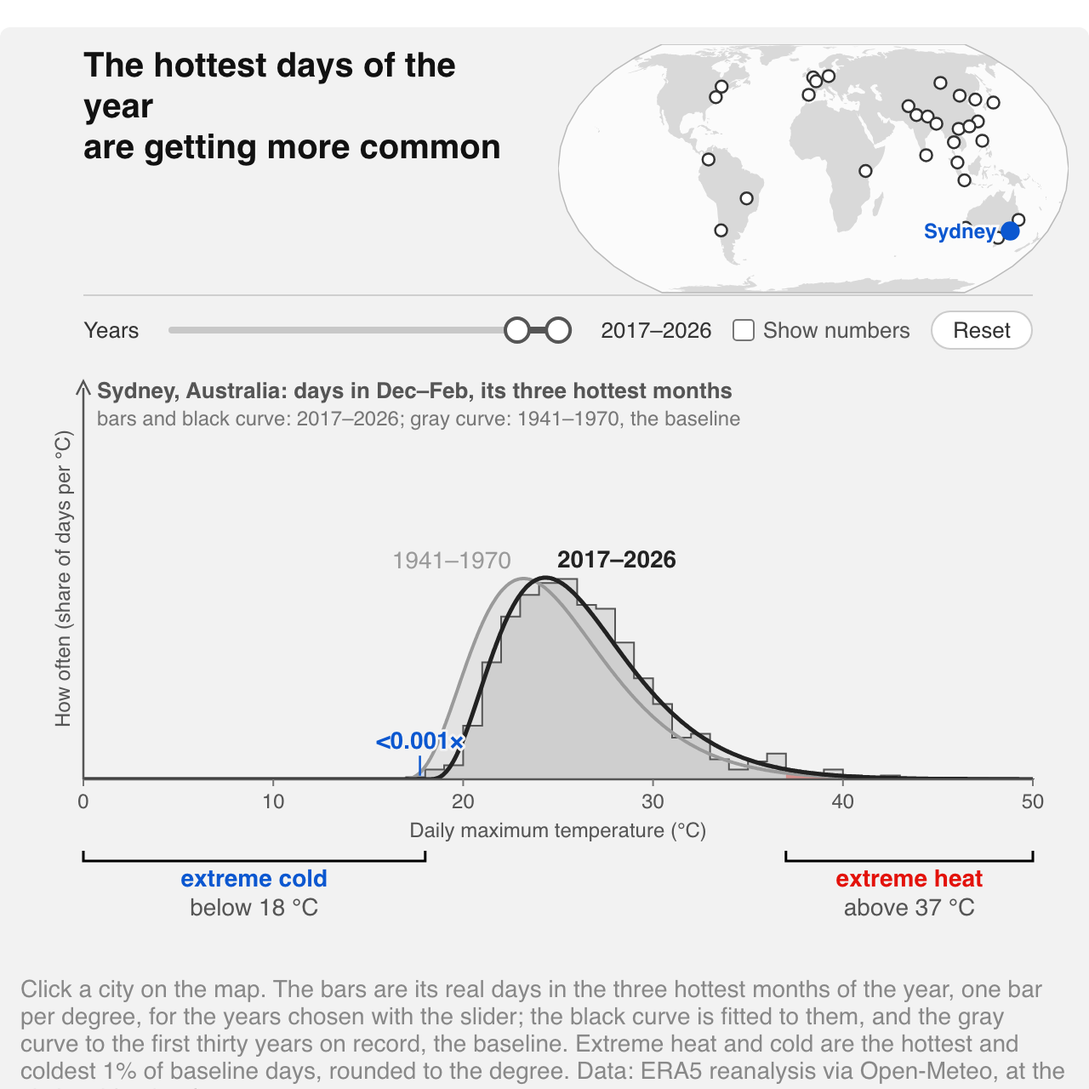
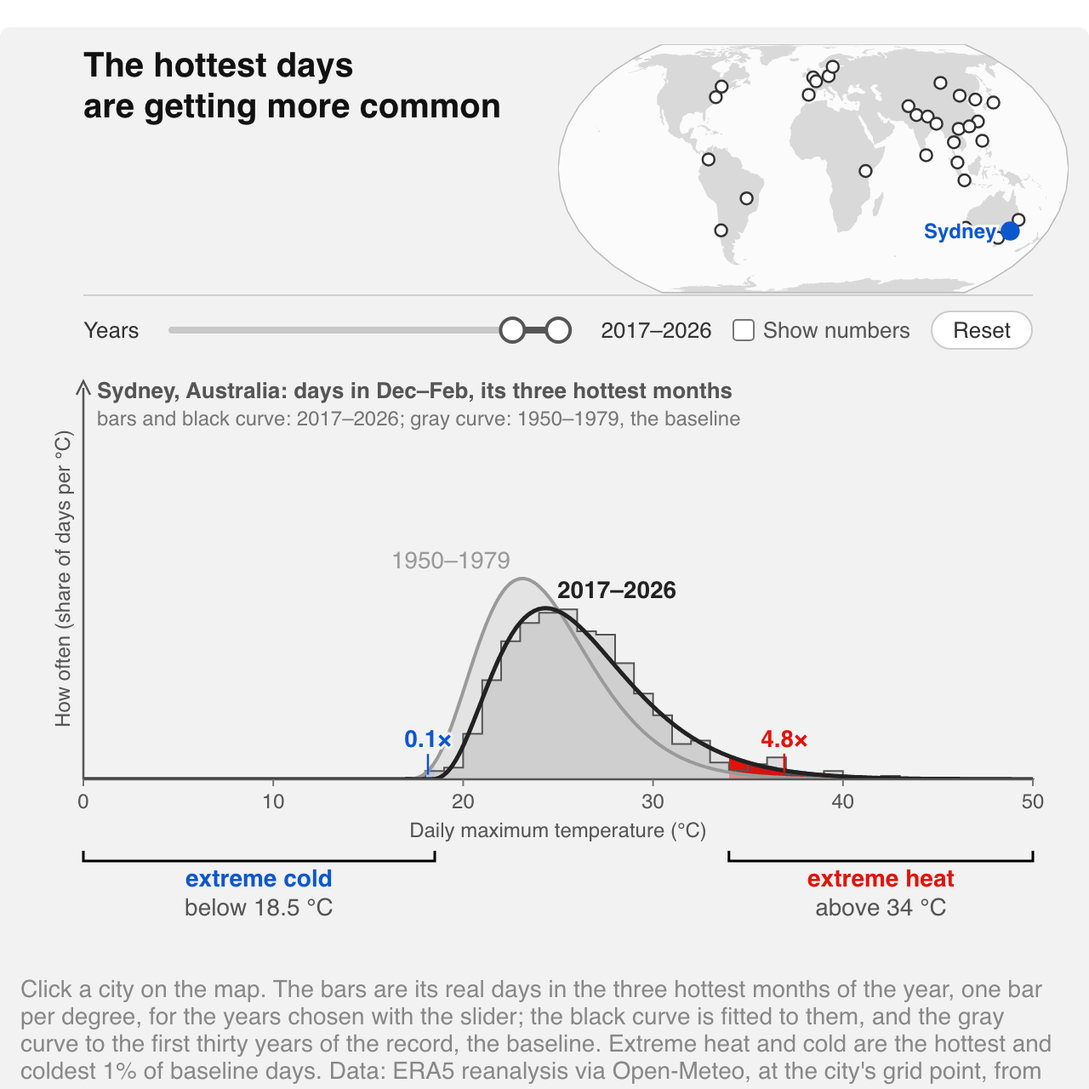
Extreme events, in real cities: record from 1950, thresholds to a tenth, grab the window
ERA5's 1940s rest on the sparse observations of the war years and come out a degree or
two warmer than the 1950s at cities as far apart as Sydney, Beijing and Islamabad, in a
step rather than a trend; as a third of the baseline they inflated every "was" figure, so
the record now starts in 1950 (a firstYear option) and the baseline is 1950–1979. The
thresholds are the baseline's 1% quantiles to a tenth of a degree rather than rounded to
whole degrees, which in a tropical city with a spread under two degrees could move the
baseline share from 1% to 0.1%. The years slider can be grabbed between its handles and
slid along with its width kept, and the multiplier over a tail is the data's share ratio,
not the fitted curves', whose hard bound could sit past a threshold.

diff --git a/src/extreme-events-cities/widget.js b/src/extreme-events-cities/widget.js
@@ -18,7 +18,7 @@
 // the same fit to the window, so it follows the slider. There are no curve sliders here:
 // the reader's controls are the city and the years.
 //
-// The extremes are the baseline's hottest and coldest 1% of days, rounded to whole degrees,
+// The extremes are the baseline's hottest and coldest 1% of days, to a tenth of a degree,
 // so each city gets thresholds of its own. The temperature axis is the same for every city,
 // so that nothing jumps when one is picked, except that the two polar stations slide it
 // down by 25 degrees (same width, animated, so the ticks are seen to move); the vertical
@@ -43,6 +43,11 @@ const TINT_BASE = 0.38, TINT_LOSS = 0.16;
 const LEADER_BAND = 2;
 const BASELINE_YEARS = 30;
 const WINDOW_YEARS = 10;      // the window the slider opens on: the last ten years
+// The record starts in 1950, although the data file runs from 1940: ERA5's 1940s rest on
+// the sparse observations of the war years and come out a degree or two too warm at
+// several unrelated cities (Sydney, Beijing, Islamabad), which, as a third of the baseline,
+// inflated every "was" figure.
+const FIRST_YEAR = 1950;
 const TAIL = 0.01;
 const X_RANGE = [0, 50];      // the temperature axis, °C, the same for every city but the polar ones,
 const POLAR_RANGE = [-25, 25]; // which slide it down by 25 degrees: same width, so the ticks just move
@@ -72,11 +77,19 @@ export function moments(v) {
 
 // `data` is the parsed data/hot-season-tmax.json, `world` the parsed countries-110m.json
 // (without it the map has no land). `city` is a name from the data; `xRange` the
-// temperature axis in °C, and `polarRange` the one for cities beyond 60° of latitude.
-export function createCityExtremesWidget({data, world, city = "Sydney", xRange = X_RANGE, polarRange = POLAR_RANGE, showNumbers = false, width = FIGURE_WIDTH} = {}) {
+// temperature axis in °C, and `polarRange` the one for cities beyond 60° of latitude;
+// `firstYear` is where the record starts.
+export function createCityExtremesWidget({data, world, city = "Sydney", xRange = X_RANGE, polarRange = POLAR_RANGE, firstYear = FIRST_YEAR, showNumbers = false, width = FIGURE_WIDTH} = {}) {
   if (!data?.cities?.length) throw new Error("createCityExtremesWidget needs the hot-season-tmax data");
   const uid = `extreme-events-cities-${++instances}`;
-  const cities = data.cities.map(c => ({...c, seasons: c.days.map(d => d.map(t => t / 10))}));
+  const cities = data.cities.map(c => {
+    const keep = c.years.map(y => y >= firstYear);
+    return {
+      ...c,
+      years: c.years.filter((_, i) => keep[i]),
+      seasons: c.days.filter((_, i) => keep[i]).map(d => d.map(t => t / 10)),
+    };
+  });
   const land = world?.objects?.land ? feature(world, world.objects.land) : null;
 
   // Vertical layout as in the simple widget, with two caption lines at the top of the plot.
@@ -138,9 +151,12 @@ export function createCityExtremesWidget({data, world, city = "Sydney", xRange =
     const y0 = c.years[0], y1 = c.years[Math.min(BASELINE_YEARS, c.years.length) - 1];
     const days = daysIn(y0, y1);
     base = {from: y0, to: y1, ...moments(days)};
+    // The thresholds are the baseline's 1% quantiles to a tenth of a degree: rounding to a
+    // whole degree looked friendlier but, in a tropical city where the spread is under two
+    // degrees, it could move the baseline share from 1% to 0.1% and the multiplier tenfold.
     const [lo, hi] = rangeFor(c);
-    thrHi = clamp(Math.round(quantileOf(days, 1 - TAIL)), lo, hi);
-    thrLo = clamp(Math.round(quantileOf(days, TAIL)), lo, hi);
+    thrHi = clamp(Math.round(10 * quantileOf(days, 1 - TAIL)) / 10, lo, hi);
+    thrLo = clamp(Math.round(10 * quantileOf(days, TAIL)) / 10, lo, hi);
     base.hiShare = share(days, true);
     base.loShare = share(days, false);
     ref = pearson3(base.mean, base.sd, base.skew);
@@ -171,7 +187,7 @@ export function createCityExtremesWidget({data, world, city = "Sydney", xRange =
   container.appendChild(header);
   const title = document.createElement("div");
   title.style.cssText = "font-weight:bold;color:#111;line-height:1.2;white-space:pre-line;padding:0 0 6px;flex:1 1 200px;";
-  title.textContent = "The hottest days of the year\nare getting more common";
+  title.textContent = "The hottest days\nare getting more common";
   header.appendChild(title);
 
   const mapSvg = document.createElementNS(SVG_NS, "svg");
@@ -221,9 +237,12 @@ export function createCityExtremesWidget({data, world, city = "Sydney", xRange =
   right.append(numbersField, resetButton);
   toolRow.appendChild(right);
 
-  // The two-handle slider: a track, the span between the handles, and the handles.
+  // The two-handle slider: a track, the span between the handles, a wide invisible strip over
+  // the span by which the whole window is dragged along, and the handles.
   const rangeTrack = svgEl("line", {y1: RANGE_H / 2, y2: RANGE_H / 2, stroke: "#c8c8c8", "stroke-width": 4, "stroke-linecap": "round"}, yearsSvg);
   const rangeSpan = svgEl("line", {y1: RANGE_H / 2, y2: RANGE_H / 2, stroke: BAR_STROKE, "stroke-width": 4, "stroke-linecap": "round"}, yearsSvg);
+  const rangeGrip = svgEl("line", {y1: RANGE_H / 2, y2: RANGE_H / 2, stroke: "#000", "stroke-opacity": 0, "stroke-width": RANGE_H}, yearsSvg);
+  rangeGrip.style.cursor = "grab";
   const handles = {};
   for (const key of ["from", "to"]) {
     const h = svgEl("circle", {cy: RANGE_H / 2, r: HANDLE_R, fill: "#fff", stroke: BAR_STROKE, "stroke-width": 2, tabindex: 0,
@@ -247,8 +266,32 @@ export function createCityExtremesWidget({data, world, city = "Sydney", xRange =
     });
     handles[key] = h;
   }
+  // A press between the handles grabs the whole window and drags it along, its width kept;
+  // a press on the track outside them jumps the nearer handle there. Decided by position,
+  // not by which element was hit, since an invisible stroke is not hit-tested everywhere.
   yearsSvg.addEventListener("pointerdown", e => {
     if (e.target.tagName === "circle") return;
+    e.preventDefault();
+    const x = e.clientX - yearsSvg.getBoundingClientRect().left;
+    if (x > yearX(from) + HANDLE_R && x < yearX(to) - HANDLE_R) {
+      yearsSvg.setPointerCapture(e.pointerId);
+      rangeGrip.style.cursor = "grabbing";
+      const y0 = yearAt(e.clientX), from0 = from, span = to - from;
+      const first = c.years[0], last = c.years[c.years.length - 1];
+      const move = ev => {
+        const d = clamp(yearAt(ev.clientX) - y0, first - from0, last - span - from0);
+        if (from0 + d === from) return;
+        from = from0 + d;
+        to = from + span;
+        update();
+      };
+      yearsSvg.addEventListener("pointermove", move);
+      yearsSvg.addEventListener("pointerup", () => {
+        yearsSvg.removeEventListener("pointermove", move);
+        rangeGrip.style.cursor = "grab";
+      }, {once: true});
+      return;
+    }
     const y = yearAt(e.clientX);
     const key = Math.abs(y - from) <= Math.abs(y - to) ? "from" : "to";
     setYear(key, y);
@@ -270,6 +313,7 @@ export function createCityExtremesWidget({data, world, city = "Sydney", xRange =
     const x0 = yearX(from), x1 = yearX(to), W = rangeWidth();
     setAttrs(rangeTrack, {x1: HANDLE_R, x2: W - HANDLE_R});
     setAttrs(rangeSpan, {x1: x0.toFixed(1), x2: x1.toFixed(1)});
+    setAttrs(rangeGrip, {x1: x0.toFixed(1), x2: x1.toFixed(1)});
     handles.from.setAttribute("cx", x0.toFixed(1));
     handles.to.setAttribute("cx", x1.toFixed(1));
     for (const key of ["from", "to"]) {
@@ -292,8 +336,8 @@ export function createCityExtremesWidget({data, world, city = "Sydney", xRange =
   note.textContent =
     "Click a city on the map. The bars are its real days in the three hottest months of the year, one bar per degree, " +
     "for the years chosen with the slider; the black curve is fitted to them, and the gray curve to the first thirty " +
-    "years on record, the baseline. Extreme heat and cold are the hottest and coldest 1% of baseline days, rounded to " +
-    "the degree. Data: ERA5 reanalysis via Open-Meteo, at the city's grid point, from 1940.";
+    "years of the record, the baseline. Extreme heat and cold are the hottest and coldest 1% of baseline days. " +
+    "Data: ERA5 reanalysis via Open-Meteo, at the city's grid point, from 1950.";
   container.appendChild(note);
 
   function svgEl(tag, attrs = {}, parent) {
@@ -557,8 +601,8 @@ export function createCityExtremesWidget({data, world, city = "Sydney", xRange =
       ? `${win.mean.toFixed(1)} ± ${win.sd.toFixed(1)} °C (was ${base.mean.toFixed(1)} ± ${base.sd.toFixed(1)})`
       : `fits: ${win.mean.toFixed(1)} ± ${win.sd.toFixed(1)} °C, skewness ${signed(win.skew, 2)} (baseline ${base.mean.toFixed(1)} ± ${base.sd.toFixed(1)} °C, ${signed(base.skew, 2)})`;
 
-    const stats = {lo: tailStats("lo"), hi: tailStats("hi")};
     const dataShare = {hi: share(days, true), lo: share(days, false)};
+    const stats = {lo: tailStats("lo", dataShare.lo), hi: tailStats("hi", dataShare.hi)};
     for (const side of ["lo", "hi"]) placeLeader(side, stats[side]);
     const of = narrow() ? "" : " of days"; // two full lines do not fit side by side on a phone
     fitLines(2, {
@@ -591,11 +635,14 @@ export function createCityExtremesWidget({data, world, city = "Sydney", xRange =
   }
   const narrow = () => w < 480;
 
-  function tailStats(side) {
+  // A tail's multiplier is the data's: the window's share of days beyond the threshold over
+  // the baseline's. (The fitted curves' shares would do in the middle, but a skewed fit has
+  // a hard bound that can sit past a threshold where the data still have days.) The leader
+  // still stands where the area between the two curves is.
+  function tailStats(side, fNow) {
     const hi = side === "hi";
     const t = hi ? thrHi : thrLo;
-    const fNow = clamp(hi ? 1 - cur.cdf(t) : cur.cdf(t), 0, 1);
-    const fWas = clamp(hi ? 1 - ref.cdf(t) : ref.cdf(t), 0, 1);
+    const fWas = hi ? base.hiShare : base.loShare;
     const ratio = fWas > 0 ? fNow / fWas : fNow > 0 ? Infinity : 1;
     let sw = 0, sx = 0, sy = 0;
     for (const x of samples) {
@@ -607,8 +654,8 @@ export function createCityExtremesWidget({data, world, city = "Sydney", xRange =
     return {t, fNow, fWas, ratio, cx: sw > 1e-12 ? sx / sw : null, cy: sw > 1e-12 ? sy / sw : 0};
   }
 
-  // The multiplier over a tail is the fitted curves', shown once it is outside the band from
-  // half to double, and always with the numbers.
+  // The multiplier over a tail, shown once it is outside the band from half to double, and
+  // always with the numbers; "0×" when the window has no such days at all.
   function placeLeader(side, st) {
     const t = tails[side];
     const show = st.cx != null && Number.isFinite(st.ratio) && (numbers || st.ratio >= LEADER_BAND || st.ratio <= 1 / LEADER_BAND);
@@ -618,7 +665,7 @@ export function createCityExtremesWidget({data, world, city = "Sydney", xRange =
     const top = Math.max(plotT + labelFont + 4, ys(Math.max(cur.pdf(st.cx), ref.pdf(st.cx))) - 10);
     setAttrs(t.leader, {x1: px.toFixed(1), x2: px.toFixed(1), y1: ys(st.cy).toFixed(1), y2: top.toFixed(1)});
     setAttrs(t.leaderLabel, {x: px.toFixed(1), y: (top - 4).toFixed(1)});
-    t.leaderLabel.textContent = `${formatMultiplier(st.ratio)}×`;
+    t.leaderLabel.textContent = st.fNow === 0 ? "0×" : `${formatMultiplier(st.ratio)}×`;
   }
 
   // The curves are named by their years, each label on the side away from the other and

diff --git a/src/extreme-events-cities/index.md b/src/extreme-events-cities/index.md
@@ -1,6 +1,6 @@
 # Extreme events, in real cities
 
-The [simple figure](../extreme-events-simple/) with real days behind the curve. Pick a city on the map. The bars are a histogram of its daily maximum temperatures in the three hottest months of its year, one bar per degree, for the years chosen with the slider, from the ERA5 reanalysis. The gray curve is a skewed bell fitted to the first thirty years on record, the baseline; the black curve is the same bell fitted to the chosen years, so it follows the slider. Extreme heat and extreme cold are the hottest and coldest 1% of baseline days, rounded to the degree, and the vivid red is what the chosen years add to the extreme heat.
+The [simple figure](../extreme-events-simple/) with real days behind the curve. Pick a city on the map. The bars are a histogram of its daily maximum temperatures in the three hottest months of its year, one bar per degree, for the years chosen with the slider, from the ERA5 reanalysis. The gray curve is a skewed bell fitted to the first thirty years of the record, 1950 to 1979, the baseline; the black curve is the same bell fitted to the chosen years, so it follows the slider. Extreme heat and extreme cold are the hottest and coldest 1% of baseline days, and the vivid red is what the chosen years add to the extreme heat.
 
 ```js
 import {createCityExtremesWidget} from "./widget.js";
@@ -15,11 +15,11 @@ const extremes = view(createCityExtremesWidget({data, world}));
 
 ## What to look for
 
-**Drag the window.** The slider opens on the last ten years. Drag both handles down to the 1940s and the bars sit under the gray curve, which was fitted to them; drag them back up and watch where the bars go. Make the window a single year and the bars get ragged, because ninety days is not many: that raggedness is why climate is defined over thirty years, and why ten recent years are a fair sample but not a definitive one.
+**Drag the window.** The slider opens on the last ten years. Grab it in the middle and slide it down to the 1950s, and the bars sit under the gray curve, which was fitted to them; slide it back up and watch where the bars go. Each handle moves on its own too. Make the window a single year and the bars get ragged, because ninety days is not many: that raggedness is why climate is defined over thirty years, and why ten recent years are a fair sample but not a definitive one.
 
 **Read the numbers.** Tick *Show numbers* for the two fits, average ± spread and skewness, and for the share of the chosen years' days beyond each threshold against the baseline's share. The multiplier over a tail is the ratio of the two fitted curves' tails.
 
-**Not every city tells the same story.** The biggest multipliers are where the spread is smallest: in Jakarta, Kuala Lumpur, Taipei and Hong Kong one hot-season day is much like the next, so a degree of warming pushes a large share of days past a threshold that used to be rare, and days above Jakarta's old 1% mark are now one in six. Madrid, Tokyo, Paris and London show the textbook case, an average up by one to two degrees and the old 1% days four to fourteen times as common. The Australian cities have moved little at their ERA5 grid points, which on a coast mix land and sea. And in South Asia the reanalysis shows the hottest months cooling since the 1940s: New Delhi, Islamabad and Dhaka have fewer days past their old thresholds, not more, a known pattern over the Indo-Gangetic plain attributed to irrigation and air pollution, and one to treat with care, since the early decades of a reanalysis rest on few observations there.
+**Not every city tells the same story.** The biggest multipliers are where the spread is smallest: in Jakarta, Kuala Lumpur, Taipei and Hong Kong one hot-season day is much like the next, so a degree of warming pushes a large share of days past a threshold that used to be rare, and days above Jakarta's old 1% mark are now one in six. Madrid, Tokyo, Paris and London show the textbook case, an average up by one to two degrees and the old 1% days four to fourteen times as common. The Australian cities have moved little at their ERA5 grid points, which on a coast mix land and sea. And in South Asia the reanalysis shows the hottest months cooling from the 1950s to the 1990s before levelling off: New Delhi and Islamabad have fewer days past their old thresholds, not more. Station records show the same, a known pattern over the Indo-Gangetic plain attributed to the spread of irrigation and to aerosol haze, and still one to treat with care, since the early decades of a reanalysis rest on few observations there.
 
 **Why the three hottest months.** A whole year of daily maxima has two humps, one per season, and is not a bell. The figure keeps each city's three hottest consecutive calendar months, by the mean daily maximum over the whole record: December to February in Sydney, January to March in Melbourne and Perth, June to August in Beijing and April to June in New Delhi, where the monsoon makes July and August cooler than May.
 
@@ -29,43 +29,44 @@ The data are the ERA5 reanalysis's daily maximum 2-metre temperature at each cit
 
 The cities are the capitals of the countries that send the most students to Australia, from the Department of Education's [international student numbers by country](https://www.education.gov.au/international-education-data-and-research/international-student-numbers-country-state-and-territory) (the shortlist is kept in [`data/the-number-of-internatio.csv`](https://github.com/briochemc/ClimateWidgets/blob/main/src/extreme-events-cities/data/the-number-of-internatio.csv)), plus the four largest Australian cities, less three capitals that would sit on top of a neighbour on the map: Singapore under Kuala Lumpur, Thimphu between Kathmandu and Dhaka, Phnom Penh beside Bangkok. Colombo stands for Sri Lanka, whose official capital is its suburb. A few more are there so that the map covers the world: London, Paris, Madrid, Berlin and Stockholm; Riyadh and Tehran; Cairo, Abuja and Cape Town; Los Angeles; and one station at each pole, Longyearbyen in Svalbard and Australia's Casey Station in Antarctica, whose warmest months barely reach above freezing.
 
-A reanalysis grid cell is not a thermometer in a city: on a coast it mixes land and sea, it smooths over the urban heat island, and its early decades rest on fewer observations than its recent ones. Both curves are Pearson type III distributions fitted by the method of moments (sample mean, standard deviation and skewness). The histogram's bars are a density, the share of the window's days per degree, so they are on the same scale as the curves, and the vertical scale is fixed at twice the baseline curve's peak whatever the window shows. The thresholds are the baseline days' 1st and 99th percentiles rounded to whole degrees, so the baseline share beyond each is near 1% but not exactly. The temperature axis runs from 0 to 50 °C for every city, so that nothing moves when a city is picked, with one exception: the two polar stations slide it down to −25 to 25 °C, the same width, and the ticks are seen to move. A city in the tropics, where one day is much like the next, is a narrow spike on this axis, and that is the point. The map is the one the [CO₂ around the world](../co2-latitude/) widget draws: Natural Earth's 1:110m land from [world-atlas](https://github.com/topojson/world-atlas), in the Equal Earth projection with d3-geo.
+A reanalysis grid cell is not a thermometer in a city: on a coast it mixes land and sea, it smooths over the urban heat island, and its early decades rest on fewer observations than its recent ones. The figure therefore starts the record in 1950 although the file runs from 1940: ERA5's 1940s, added last and resting on the sparse observations of the war years, come out a degree or two warmer than the 1950s at cities as far apart as Sydney, Beijing and Islamabad, in a step rather than a trend, and as a third of the baseline they inflated every "was" figure. Both curves are Pearson type III distributions fitted by the method of moments (sample mean, standard deviation and skewness). The histogram's bars are a density, the share of the window's days per degree, so they are on the same scale as the curves, and the vertical scale is fixed at twice the baseline curve's peak whatever the window shows. The thresholds are the baseline days' 1st and 99th percentiles to a tenth of a degree; rounding them to whole degrees read better but, in a tropical city where the spread is under two degrees, could move the baseline share from 1% to 0.1% and the multiplier tenfold. The temperature axis runs from 0 to 50 °C for every city, so that nothing moves when a city is picked, with one exception: the two polar stations slide it down to −25 to 25 °C, the same width, and the ticks are seen to move. A city in the tropics, where one day is much like the next, is a narrow spike on this axis, and that is the point. The map is the one the [CO₂ around the world](../co2-latitude/) widget draws: Natural Earth's 1:110m land from [world-atlas](https://github.com/topojson/world-atlas), in the Equal Earth projection with d3-geo.
 
-For the first and last thirty years on record:
+For the baseline and the last thirty years:
 
 <!-- city-table -->
 | City | Hot season | Baseline | Last 30 years | Days above the old 1% threshold |
 |---|---|---|---|---|
-| Sydney | Dec–Feb | 25.0 ± 3.9 °C | 25.3 ± 3.5 °C | 37 °C: 0.9% then 0.7% |
-| Melbourne | Jan–Mar | 25.0 ± 5.2 °C | 25.2 ± 5.5 °C | 38 °C: 0.9% then 1.6% |
-| Brisbane | Dec–Feb | 28.4 ± 3.0 °C | 28.7 ± 3.0 °C | 36 °C: 1.5% then 1.5% |
-| Perth | Jan–Mar | 30.3 ± 4.6 °C | 30.3 ± 4.5 °C | 40 °C: 1.6% then 1.5% |
-| Beijing | Jun–Aug | 29.5 ± 3.7 °C | 31.5 ± 3.5 °C | 39 °C: 0.8% then 1.6% |
-| New Delhi | Apr–Jun | 40.1 ± 3.7 °C | 38.0 ± 3.6 °C | 46 °C: 1.5% then 0.1% |
-| Kathmandu | May–Jul | 25.8 ± 2.1 °C | 25.7 ± 1.7 °C | 32 °C: 1.4% then 0.0% |
-| Hanoi | Jun–Aug | 31.8 ± 2.6 °C | 32.2 ± 2.2 °C | 40 °C: 0.7% then 0.0% |
-| Dhaka | Mar–May | 32.9 ± 3.4 °C | 32.3 ± 2.6 °C | 41 °C: 0.7% then 0.0% |
-| Jakarta | Aug–Oct | 30.6 ± 1.4 °C | 31.5 ± 1.6 °C | 34 °C: 0.4% then 6.4% |
-| Manila | Mar–May | 31.9 ± 1.8 °C | 32.0 ± 2.1 °C | 35 °C: 2.5% then 6.6% |
-| Bogotá | Aug–Oct | 18.9 ± 1.4 °C | 19.5 ± 1.4 °C | 22 °C: 0.6% then 2.8% |
-| Islamabad | May–Jul | 36.4 ± 4.6 °C | 34.4 ± 3.7 °C | 44 °C: 1.7% then 0.0% |
-| Colombo | Feb–Apr | 31.0 ± 1.4 °C | 31.2 ± 1.5 °C | 35 °C: 0.7% then 0.5% |
-| Brasília | Aug–Oct | 28.4 ± 2.7 °C | 28.7 ± 2.5 °C | 35 °C: 0.8% then 0.4% |
-| Bangkok | Mar–May | 33.4 ± 2.1 °C | 33.8 ± 2.2 °C | 38 °C: 0.9% then 1.2% |
-| Seoul | Jun–Aug | 27.4 ± 3.2 °C | 28.0 ± 2.9 °C | 34 °C: 1.4% then 1.7% |
-| Kuala Lumpur | Feb–Apr | 29.9 ± 1.2 °C | 30.7 ± 1.7 °C | 33 °C: 1.5% then 9.9% |
-| Taipei | Jun–Aug | 30.2 ± 1.9 °C | 31.1 ± 2.2 °C | 34 °C: 0.9% then 7.9% |
-| Hong Kong | Jun–Aug | 29.1 ± 1.4 °C | 29.6 ± 1.6 °C | 32 °C: 1.3% then 5.0% |
-| Tokyo | Jul–Sep | 27.3 ± 3.0 °C | 28.7 ± 3.6 °C | 33 °C: 1.4% then 10.1% |
-| Nairobi | Jan–Mar | 25.4 ± 1.9 °C | 26.6 ± 1.9 °C | 30 °C: 0.6% then 2.7% |
-| Washington | Jun–Aug | 29.1 ± 3.7 °C | 29.8 ± 3.7 °C | 37 °C: 0.7% then 1.6% |
-| Ulaanbaatar | Jun–Aug | 21.2 ± 4.3 °C | 22.6 ± 4.6 °C | 31 °C: 0.9% then 3.0% |
-| Santiago | Dec–Feb | 28.1 ± 2.5 °C | 28.1 ± 2.7 °C | 34 °C: 1.0% then 0.8% |
-| Ottawa | Jun–Aug | 24.2 ± 4.1 °C | 24.8 ± 3.9 °C | 33 °C: 1.4% then 1.4% |
-| London | Jun–Aug | 20.3 ± 3.1 °C | 21.3 ± 3.6 °C | 29 °C: 1.0% then 3.6% |
-| Paris | Jun–Aug | 22.4 ± 3.8 °C | 23.9 ± 4.3 °C | 33 °C: 0.7% then 3.2% |
-| Madrid | Jun–Aug | 29.5 ± 4.1 °C | 31.4 ± 4.4 °C | 37 °C: 0.5% then 7.1% |
-| Berlin | Jun–Aug | 21.8 ± 3.8 °C | 23.6 ± 4.3 °C | 31 °C: 1.1% then 5.0% |
+| Sydney | Dec–Feb | 24.4 ± 3.2 °C | 25.3 ± 3.5 °C | 34.0 °C: 1.0% then 2.1% |
+| Melbourne | Jan–Mar | 25.0 ± 5.1 °C | 25.2 ± 5.5 °C | 37.5 °C: 0.9% then 2.0% |
+| Brisbane | Dec–Feb | 28.3 ± 3.0 °C | 28.7 ± 3.0 °C | 36.7 °C: 1.0% then 1.1% |
+| Perth | Jan–Mar | 31.2 ± 4.6 °C | 30.3 ± 4.5 °C | 41.0 °C: 1.0% then 0.5% |
+| Beijing | Jun–Aug | 29.3 ± 3.6 °C | 31.5 ± 3.5 °C | 37.8 °C: 1.0% then 3.3% |
+| New Delhi | Apr–Jun | 39.3 ± 3.7 °C | 38.0 ± 3.6 °C | 45.7 °C: 1.0% then 0.3% |
+| Kathmandu | May–Jul | 25.9 ± 2.2 °C | 25.7 ± 1.7 °C | 32.3 °C: 1.0% then 0.0% |
+| Hanoi | Jun–Aug | 31.5 ± 2.3 °C | 32.2 ± 2.2 °C | 36.6 °C: 1.0% then 2.1% |
+| Dhaka | Mar–May | 32.9 ± 3.3 °C | 32.3 ± 2.6 °C | 40.7 °C: 0.9% then 0.1% |
+| Jakarta | Aug–Oct | 30.3 ± 1.3 °C | 31.5 ± 1.6 °C | 33.3 °C: 0.9% then 12.2% |
+| Manila | Mar–May | 32.1 ± 1.9 °C | 32.0 ± 2.1 °C | 35.5 °C: 0.9% then 3.9% |
+| Bogotá | Aug–Oct | 18.9 ± 1.5 °C | 19.5 ± 1.4 °C | 22.0 °C: 0.8% then 2.8% |
+| Islamabad | May–Jul | 34.9 ± 4.4 °C | 34.4 ± 3.7 °C | 43.2 °C: 0.9% then 0.2% |
+| Colombo | Feb–Apr | 31.0 ± 1.3 °C | 31.2 ± 1.5 °C | 34.3 °C: 0.9% then 2.8% |
+| Brasília | Aug–Oct | 28.3 ± 2.7 °C | 28.7 ± 2.5 °C | 35.0 °C: 0.8% then 0.4% |
+| Bangkok | Mar–May | 33.4 ± 2.1 °C | 33.8 ± 2.2 °C | 38.1 °C: 0.7% then 1.1% |
+| Seoul | Jun–Aug | 27.2 ± 3.1 °C | 28.0 ± 2.9 °C | 34.3 °C: 0.9% then 1.3% |
+| Kuala Lumpur | Feb–Apr | 30.2 ± 1.3 °C | 30.7 ± 1.7 °C | 33.5 °C: 0.9% then 6.8% |
+| Taipei | Jun–Aug | 30.0 ± 1.8 °C | 31.1 ± 2.2 °C | 33.3 °C: 1.0% then 13.8% |
+| Hong Kong | Jun–Aug | 29.2 ± 1.4 °C | 29.6 ± 1.6 °C | 32.3 °C: 0.9% then 3.8% |
+| Tokyo | Jul–Sep | 27.1 ± 3.1 °C | 28.7 ± 3.6 °C | 33.4 °C: 0.8% then 8.3% |
+| Nairobi | Jan–Mar | 25.1 ± 1.8 °C | 26.6 ± 1.9 °C | 29.1 °C: 1.0% then 8.8% |
+| Washington | Jun–Aug | 29.3 ± 3.6 °C | 29.8 ± 3.7 °C | 36.9 °C: 0.9% then 1.7% |
+| Ulaanbaatar | Jun–Aug | 20.8 ± 4.1 °C | 22.6 ± 4.6 °C | 29.5 °C: 1.0% then 6.2% |
+| Santiago | Dec–Feb | 27.3 ± 2.4 °C | 28.1 ± 2.7 °C | 32.0 °C: 1.0% then 6.2% |
+| Ottawa | Jun–Aug | 24.2 ± 4.0 °C | 24.8 ± 3.9 °C | 33.3 °C: 0.9% then 1.0% |
+| London | Jun–Aug | 20.0 ± 2.9 °C | 21.3 ± 3.6 °C | 28.2 °C: 1.0% then 4.9% |
+| Paris | Jun–Aug | 21.8 ± 3.6 °C | 23.9 ± 4.3 °C | 31.9 °C: 0.9% then 4.7% |
+| Madrid | Jun–Aug | 28.9 ± 4.3 °C | 31.4 ± 4.4 °C | 36.7 °C: 0.8% then 8.5% |
+| Berlin | Jun–Aug | 21.7 ± 3.7 °C | 23.6 ± 4.3 °C | 30.9 °C: 0.9% then 5.2% |
+| Stockholm | Jun–Aug | 18.9 ± 3.0 °C | 20.3 ± 3.4 °C | 26.3 °C: 0.9% then 4.8% |
 <!-- /city-table -->
 
 ## Embed this widget
@@ -95,7 +96,8 @@ display(embedSnippets({
 
   // Options: {city: "Beijing"} opens on another city; {xRange: [0, 50]} and
   // {polarRange: [-25, 25]} set the temperature axis, for cities within and beyond
-  // 60° of latitude; {showNumbers: true} shows the figures from the start.
+  // 60° of latitude; {firstYear: 1940} starts the record (and the baseline) earlier;
+  // {showNumbers: true} shows the figures from the start.
   document.getElementById("extreme-events-cities")
     .appendChild(createCityExtremesWidget({data, world}));
 <\/script>`
